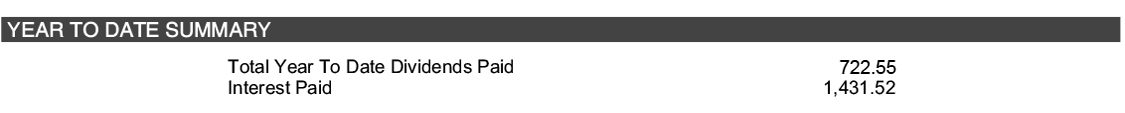
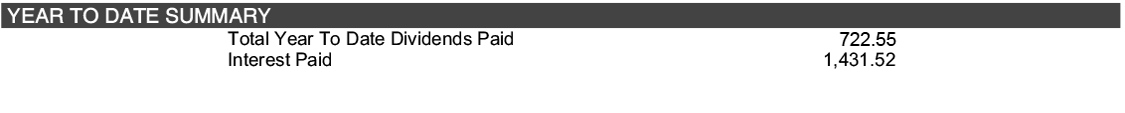
Updated: YTD, TransactionsSummary, colorPicker input box

diff --git a/src/app/build-page/preview-pane/preview-pane.component.ts b/src/app/build-page/preview-pane/preview-pane.component.ts
@@ -1078,45 +1078,77 @@ export class PreviewPaneComponent implements OnInit {
   updateTransactionSummary()
   {
     // Determine which div to update
-    var TransactionPage2Buffer:HTMLElement;
+    var TransactionBuffer:HTMLElement;
     if (this.activeStatementType == "creditCard")
     {
-      TransactionPage2Buffer = document.getElementsByClassName("p2TransactionSummary")[0] as HTMLElement;
+      TransactionBuffer = document.getElementsByClassName("p2TransactionSummary")[0] as HTMLElement;
     }
     else
     {
-      TransactionPage2Buffer = document.getElementsByClassName("shareSavingsReg")[0] as HTMLElement;
+      TransactionBuffer = document.getElementsByClassName("shareSavingsReg")[0] as HTMLElement;
     }
 
     // Update the div accordingly with user input from activeTransactionsMode and activeStatementType
-    if (this.activeStatementType == "creditCard")
+    if (this.activeSymitarCC)
     {
       if (this.activeTransactionsMode == "nochange")
       {
         if (this.activeColorMode != "greyscale")
         {
-          TransactionPage2Buffer.style.backgroundImage="url(../../../assets/ccSymitar/page2/ccTransactionSummary.png)";
+          TransactionBuffer.style.backgroundImage="url(../../../assets/ccSymitar/page2/ccTransactionSummary.png)";
         }
         else
         {
-          TransactionPage2Buffer.style.backgroundImage="url(../../../assets/ccSymitar/page2/grey/ccTransactionSummary.png)";
+          TransactionBuffer.style.backgroundImage="url(../../../assets/ccSymitar/page2/grey/ccTransactionSummary.png)";
         }
       }
       else if (this.activeTransactionsMode == "amountonly")
       {
         if (this.activeColorMode != "greyscale")
         {
-          TransactionPage2Buffer.style.backgroundImage="url(../../../assets/ccSymitar/page2/ccTransactionSummaryAmountOnly.png)";
+          TransactionBuffer.style.backgroundImage="url(../../../assets/ccSymitar/page2/ccTransactionSummaryAmountOnly.png)";
         }
         else
         {
-          TransactionPage2Buffer.style.backgroundImage="url(../../../assets/ccSymitar/page2/grey/ccTransactionSummaryAmountOnly.png)";
+          TransactionBuffer.style.backgroundImage="url(../../../assets/ccSymitar/page2/grey/ccTransactionSummaryAmountOnly.png)";
         }
       }
     }
-    else
+    else if (this.activeSymitarReg)
     {
-      // Update Sym Reg here
+      if (this.activeTransactionsMode == "balanceRight") // Default
+      {
+        if (this.activeColorMode != "greyscale")
+        {
+          TransactionBuffer.style.backgroundImage="url(../../../assets/regSymitar/page1/shareSavings.png)";
+        }
+        else
+        {
+          TransactionBuffer.style.backgroundImage="url(../../../assets/regSymitar/page1/grey/shareSavings.png)";
+        }
+      }
+      else if (this.activeTransactionsMode == "balanceLeft")
+      {
+        if (this.activeColorMode != "greyscale")
+        {
+          TransactionBuffer.style.backgroundImage="url(../../../assets/regSymitar/page1/shareSavingsBalLeft.png)";
+        }
+        else
+        {
+          TransactionBuffer.style.backgroundImage="url(../../../assets/regSymitar/page1/grey/shareSavingsBalLeft.png)";
+        }
+      }
+      else if (this.activeTransactionsMode == "amountonly")
+      {
+        if (this.activeColorMode != "greyscale")
+        {
+          TransactionBuffer.style.backgroundImage="url(../../../assets/regSymitar/page1/shareSavingsAmountOnly.png)";
+        }
+        else
+        {
+          TransactionBuffer.style.backgroundImage="url(../../../assets/regSymitar/page1/grey/shareSavingsAmountOnly.png)";
+        }
+      }
     }
   }
 
@@ -1137,24 +1169,38 @@ export class PreviewPaneComponent implements OnInit {
     // Update the div accordingly with user input from activeTYDMode and activeStatementType
     if (this.activeTYDMode == "current")
     {
-      if (this.activeStatementType == "creditCard")
+      if (this.activeSymitarCC) // Has no header color
       {
         YTDSummaryBuffer.style.backgroundImage="url(../../../assets/ccSymitar/page2/YTDsummary.png)";
       }
-      else
+      else if (this.activeSymitarReg) // Has color
       {
-        YTDSummaryBuffer.style.backgroundImage="url(../../../assets/regSymitar/page5/YTDsummary.png)";
+        if (this.activeColorMode != "greyscale")
+        {
+          YTDSummaryBuffer.style.backgroundImage="url(../../../assets/regSymitar/page5/YTDsummary.png)";
+        }
+        else
+        {
+          YTDSummaryBuffer.style.backgroundImage="url(../../../assets/regSymitar/page5/grey/YTDsummary.png)";
+        }
       }
     }
     else if (this.activeTYDMode == "currentandprevious")
     {
-      if (this.activeStatementType == "creditCard")
+      if (this.activeSymitarCC) // Has no header color
       {
         YTDSummaryBuffer.style.backgroundImage="url(../../../assets/ccSymitar/page2/YTDcurrentAndprevious.png)";
       }
-      else
+      else if (this.activeSymitarReg) // Has color
       {
-        YTDSummaryBuffer.style.backgroundImage="url(../../../assets/regSymitar/page5/YTDsummary.png)";
+        if (this.activeColorMode != "greyscale")
+        {
+          YTDSummaryBuffer.style.backgroundImage="url(../../../assets/regSymitar/page5/YTDsummaryPrev.png)";
+        }
+        else
+        {
+          YTDSummaryBuffer.style.backgroundImage="url(../../../assets/regSymitar/page5/grey/YTDsummaryPrev.png)";
+        }
       }
     }
   }

diff --git a/src/app/build-page/survey-pane/survey-pane.component.html b/src/app/build-page/survey-pane/survey-pane.component.html
@@ -1,4 +1,4 @@
-<!-- This page controls the client vie of the survey cards -->
+<!-- This page controls the client view of the survey cards -->
 <!-- Embedded scripts give the survey cards functions that allow for manipulation of the preview pane -->
 
 <div class="surveyPanel">
@@ -22,9 +22,7 @@
     </div>
   </div>
     
-  <!--2nd question: Choose your core
-  (change)="showSurvey($event)" (change)="showExtraPages($event)"
-  -->
+  <!--2nd question: Choose your core-->
     <div class="card">
       <div class="question form-group" id="coreSelection">
         <h3>Utilized Data Core</h3>
@@ -66,7 +64,7 @@
         <div class="headerColorPicker">
           <br>
           <p>Choose your company color:</p>
-          <input id="headerColor" type="color" name="favcolor" (change)="setHexCode($event)" value="#ff0000">
+          <input id="headerColor" type="color" name="favcolor" id="headerColorPicker" (change)="setHexCode($event)" value="#0055a4">
           <p> or input the hex value </p>
           <input id="hexInput" type="text" name="hexNumber" (change)="setHexCode($event)">
           <br>
@@ -87,7 +85,7 @@
         <!-- No change from skeleton (image on top) -->
         <input type="radio" (change)="setMarketingLevel($event)" class="form-radio" name="marketingLevel" value="imageOnly" checked>Image<br>
         <!-- Replace image with text marketing message -->
-        <input type="radio" (change)="setMarketingLevel($event)" class="form-radio" name="marketingLevel" value="text" checked>Text Marketing<br>
+        <input type="radio" (change)="setMarketingLevel($event)" class="form-radio" name="marketingLevel" value="text">Text Marketing<br>
         <!-- Credit Card only Option use it for contact information Action- replace image with contact samples, same
         size and allocation and remove Contact Info box from midsection -->
         <div class="creditcardQs">
@@ -203,7 +201,7 @@
   <!-- 12th question: Choose to change the look of the account balances type summary.
   Regular statements only -->
   <div class="card statementQs">
-    <div class="question red" id=accountSummaryType>
+    <div class="question" id=accountSummaryType>
       <h3>Account Summary</h3>
       <p>Select how you would like you summaries to be displayed.</p>
       <form>
@@ -234,7 +232,9 @@
             <!-- Display Balance on the Left component -->
           <input type="radio" (change)="setTransaction($event)" class="form-radio" name="transactionLevel" value="balanceLeft">Balance on the Left<br>
           <!-- Display Balance on the Right component -->
-          <input type="radio" (change)="setTransaction($event)" class="form-radio" name="transactionLevel" value="balanceRight">Balance on the Right<br>
+          <input type="radio" (change)="setTransaction($event)" class="form-radio" name="transactionLevel" value="balanceRight" checked>Balance on the Right<br>
+          <!-- Amount and Running Balance Only -->
+          <input type="radio" (change)="setTransaction($event)" class="form-radio" name="transactionLevel" value="amountonly">Amount and Balance Only<br>
         </div>
 
         <!-- cc only  -->
@@ -263,19 +263,6 @@
     </div>
   </div>
 
-  <!--15th question: joint owner information-->
-  <div class="card creditcardQs">
-    <div class="question red" id="jointOwnerType">
-      <h3>Joint Owner Option</h3>
-      <p>Are there joint owners on the account?</p>
-      <form>
-        <input type="radio" (change)="setJointOwner($event)" class="form-radio" name="jointOwnerLevel" value="yes"
-          checked>Yes<br>
-        <input type="radio" (change)="setJointOwner($event)" class="form-radio" name="jointOwnerLevel" value="no">No<br>
-      </form>
-    </div>
-  </div>
-
   <!--16th question: Year-to-date totals information-->
   <div class="card">
     <div class="question" id="YTDType">
@@ -292,6 +279,19 @@
   <!-- ================================================================== -->
   <!-- Extra questions to be added later (question backlog) -->
   <!-- ================================================================== -->
+
+  <!--15th question: joint owner information-->
+  <div class="card hideForNow">
+    <div class="question red" id="jointOwnerType">
+      <h3>Joint Owner Option</h3>
+      <p>Are there joint owners on the account?</p>
+      <form>
+        <input type="radio" (change)="setJointOwner($event)" class="form-radio" name="jointOwnerLevel" value="yes"
+          checked>Yes<br>
+        <input type="radio" (change)="setJointOwner($event)" class="form-radio" name="jointOwnerLevel" value="no">No<br>
+      </form>
+    </div>
+  </div>
 
   <!--17th question: Outbound envelope type information-->
   <div class="card hideForNow">

diff --git a/src/app/build-page/survey-pane/survey-pane.component.ts b/src/app/build-page/survey-pane/survey-pane.component.ts
@@ -210,6 +210,17 @@ export class SurveyPaneComponent implements OnInit {
     console.log("Survey choice:: ", this.activeStatementType);
     this.outputSurveyChange.emit("activeStatementType");
     this.emitSurveyFlags();
+    
+    // Update color header picker input value for each default skeleton statement
+    const colorPicker: HTMLInputElement = document.getElementById('headerColorPicker') as HTMLInputElement;
+    if (this.activeStatementType == "creditCard" && (colorPicker.value == "#559ecd" || colorPicker.value == "#0055a4"))
+    {
+      colorPicker.value = "#559ecd";
+    }
+    else if (this.activeStatementType == "account" && (colorPicker.value == "#559ecd" || colorPicker.value == "#0055a4"))
+    {
+      colorPicker.value = "#0055a4";
+    }
   }
 
   // Sets the color mode from user input on relevant question card

diff --git a/src/app/build-page/preview-pane/preview-pane.component.html b/src/app/build-page/preview-pane/preview-pane.component.html
@@ -2,6 +2,7 @@
 <script src="https://ajax.aspnetcdn.com/ajax/jQuery/jquery-3.4.1.min.js"></script>
 <script src="https://cdnjs.cloudflare.com/ajax/libs/jspdf/1.5.3/jspdf.min.js"></script>
 <script src="https://ajax.googleapis.com/ajax/libs/jquery/2.1.1/jquery.min.js"></script>
+
 <!-- Alert system to notify user of changes -->
 <!-- 
 <div style="float:left;">

diff --git a/src/app/build-page/preview-pane/preview-pane.component.css b/src/app/build-page/preview-pane/preview-pane.component.css
@@ -1,3 +1,8 @@
+/* https://tympanus.net/Development/CreativeButtons/ */
+/* Statement header blue # 0055a4 */
+/* Credit card header blue # 559ecd */
+/* Doxim blue # 00a7e1 */
+
 .viewPanel {
   margin: 0 auto;
 }

diff --git a/src/app/build-page/survey-pane/survey-pane.component.css b/src/app/build-page/survey-pane/survey-pane.component.css
@@ -20,7 +20,7 @@
 
 /* Apply changes to card class on hover */
 .card:hover {
-  background-color: #85d5fd;
+  background-color: #53c6ffd8;
 }
 
 .cc:hover {
